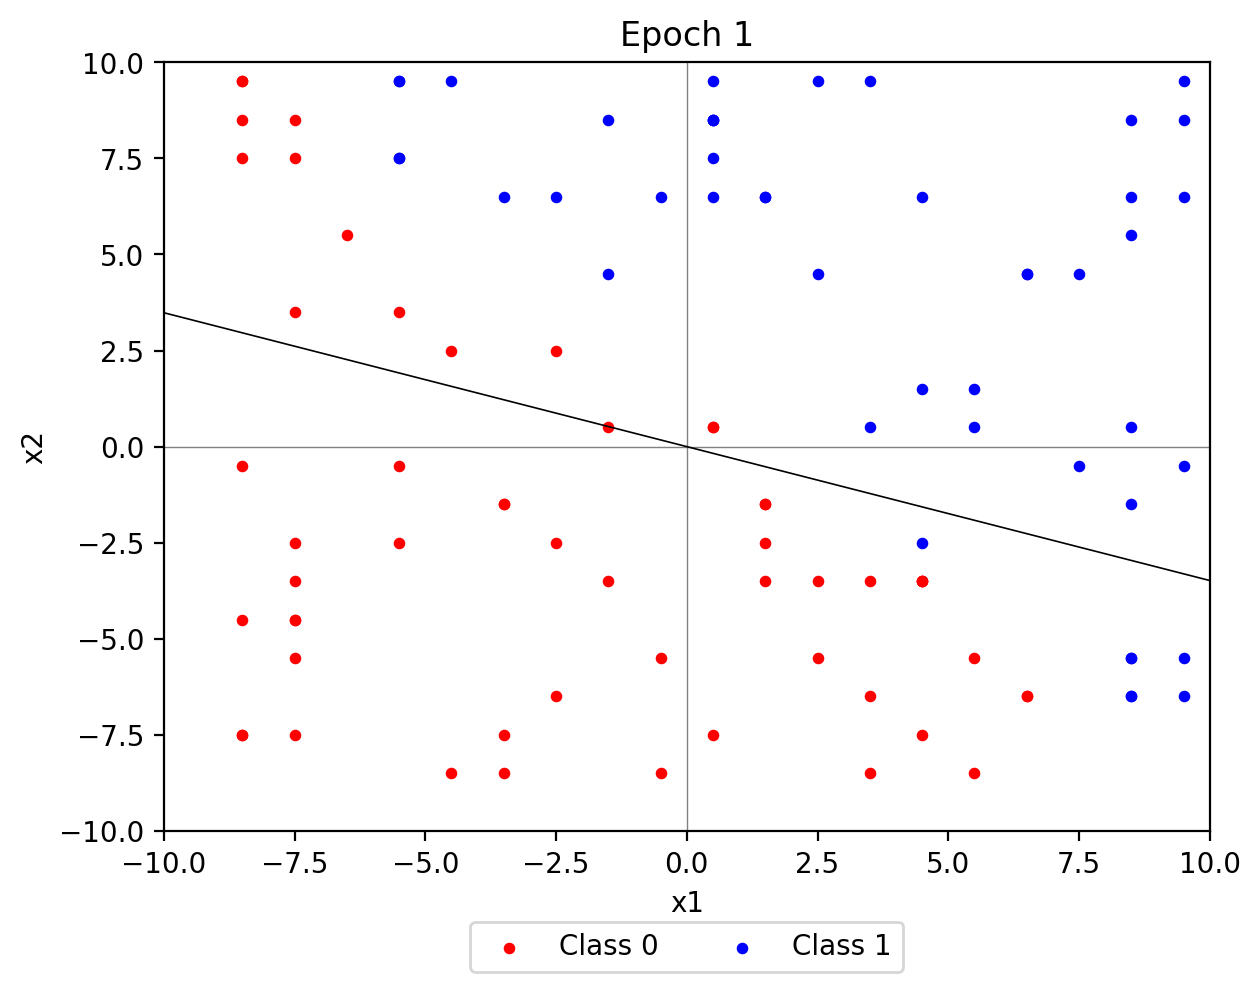
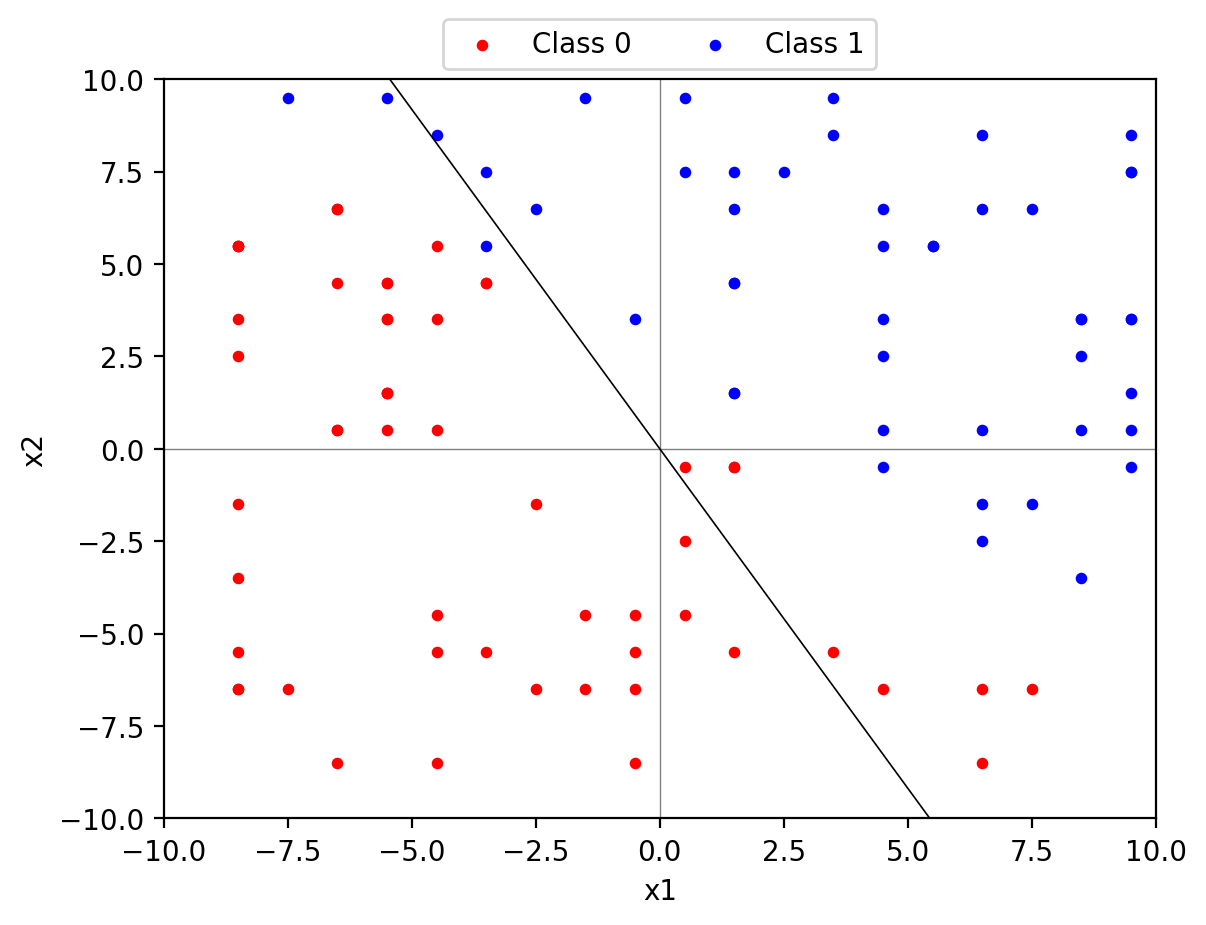
update animation

diff --git a/perceptron/main.py b/perceptron/main.py
@@ -57,49 +57,56 @@ def accuracy(X, Y, weights, bias):
 
 	return sum_correct/float(len(Y))
 
-def plot(X, Y, weights, bias, epoch):
+def plot(X, Y, weights, bias, epoch, result=None):
 	"""
 	Plots a epoch
 	"""
-	fig,ax = plt.subplots()
-	ax.set_title("Epoch %d" % epoch)
-	ax.set_xlabel("x1")
-	ax.set_ylabel("x2")
-		
 	xx = [-10,10]
-	ax.set_xlim(xx)
-	ax.set_ylim(xx)
-
-	plt.plot([0,0], xx, linewidth=0.5, c='gray')
-	plt.plot(xx, [0,0], linewidth=0.5, c='gray')
-
-	# Class division
-	c1_data=[[],[]]
-	c0_data=[[],[]]
-	for row_X, row_Y in zip(X,Y):
-		cur_i1 = row_X[0]
-		cur_i2 = row_X[1]
-
-		if row_Y == 1:
-			c1_data[0].append(cur_i1)
-			c1_data[1].append(cur_i2)
-		else:
-			c0_data[0].append(cur_i1)
-			c0_data[1].append(cur_i2)
-
-	# plot the classes
-	c0s = plt.scatter(c0_data[0],c0_data[1],s=10.0,c='r',label='Class 0')
-	c1s = plt.scatter(c1_data[0],c1_data[1],s=10.0,c='b',label='Class 1')
 
 	# Plot the line
 	yy = (-np.dot(weights[0], xx) - bias) / weights[1]
-	plt.plot(xx, yy, linewidth=0.6, c='black')
 
-	plt.tight_layout()
-	plt.legend(bbox_to_anchor=(0.5, -0.1), fontsize=10,loc='upper center', ncol=2)
+	if result == None:
+		fig,ax = plt.subplots()
+		#ax.set_title("Perceptron")
+		ax.set_xlabel("x1")
+		ax.set_ylabel("x2")
+
+		ax.set_xlim(xx)
+		ax.set_ylim(xx)
+
+		plt.plot([0,0], xx, linewidth=0.5, c='gray')
+		plt.plot(xx, [0,0], linewidth=0.5, c='gray')
+
+		# Class division
+		c1_data=[[],[]]
+		c0_data=[[],[]]
+		for row_X, row_Y in zip(X,Y):
+			cur_i1 = row_X[0]
+			cur_i2 = row_X[1]
+
+			if row_Y == 1:
+				c1_data[0].append(cur_i1)
+				c1_data[1].append(cur_i2)
+			else:
+				c0_data[0].append(cur_i1)
+				c0_data[1].append(cur_i2)
+
+		# plot the classes
+		c0s = plt.scatter(c0_data[0],c0_data[1],s=10.0,c='r',label='Class 0')
+		c1s = plt.scatter(c1_data[0],c1_data[1],s=10.0,c='b',label='Class 1')
+
+		result, = plt.plot(xx, yy, linewidth=0.6, c='black')
+	else:
+		result.set_data(xx, yy)
+
+	#plt.tight_layout()
+	plt.legend(bbox_to_anchor=(0.5, 1.1), fontsize=10,loc='upper center', ncol=2)
 	plt.savefig('plots/epoch_%s' % (str(epoch)), dpi=200, bbox_inches='tight')
-	plt.show()
-	return
+	plt.draw()
+	plt.pause(0.6)
+
+	return result
 
 def train(X, Y, learning_rate, nb_epoch):
 	"""
@@ -120,6 +127,9 @@ def train(X, Y, learning_rate, nb_epoch):
 
 	best_acc = -1
 
+	plt.ion()
+	result = None
+
 	# Número de vezes (máximo de iterações/épocas) que irei ajustar os pesos
 	for epoch in range(1, nb_epoch+1):
 		cur_acc = accuracy(X, Y, weights, bias)
@@ -132,7 +142,7 @@ def train(X, Y, learning_rate, nb_epoch):
 			best_acc = cur_acc
 
 		# Cria um gráfico para cada época
-		plot(X, Y, weights, bias, epoch)
+		result = plot(X, Y, weights, bias, epoch, result)
 
 		# Se eu encontrei os pesos que refletem a melhor acurácia possível (100%) eu paro as iterações
 		if cur_acc == 1.0:
@@ -171,6 +181,7 @@ def main(nb_epoch):
 
 	print("Training...\n")
 	weights, bias, epoch, acc = train(X, Y, 0.1, int(nb_epoch))
+	plt.show(True)
 
 	# Realizo um segundo teste 
 	print("\nEvalutating weights and bias to a new linearly separable dataset... \nAccuracy: %f" % accuracy(X_test, Y_test, weights, bias))
